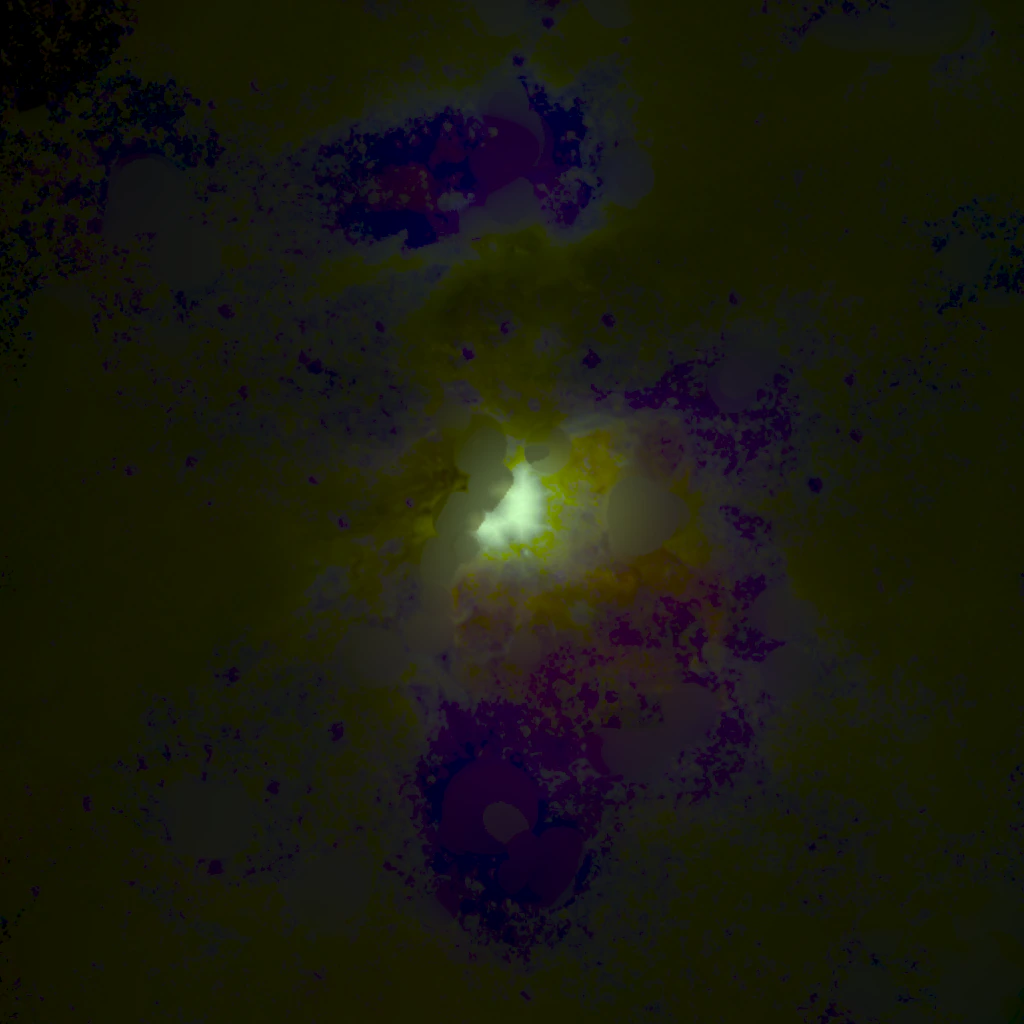
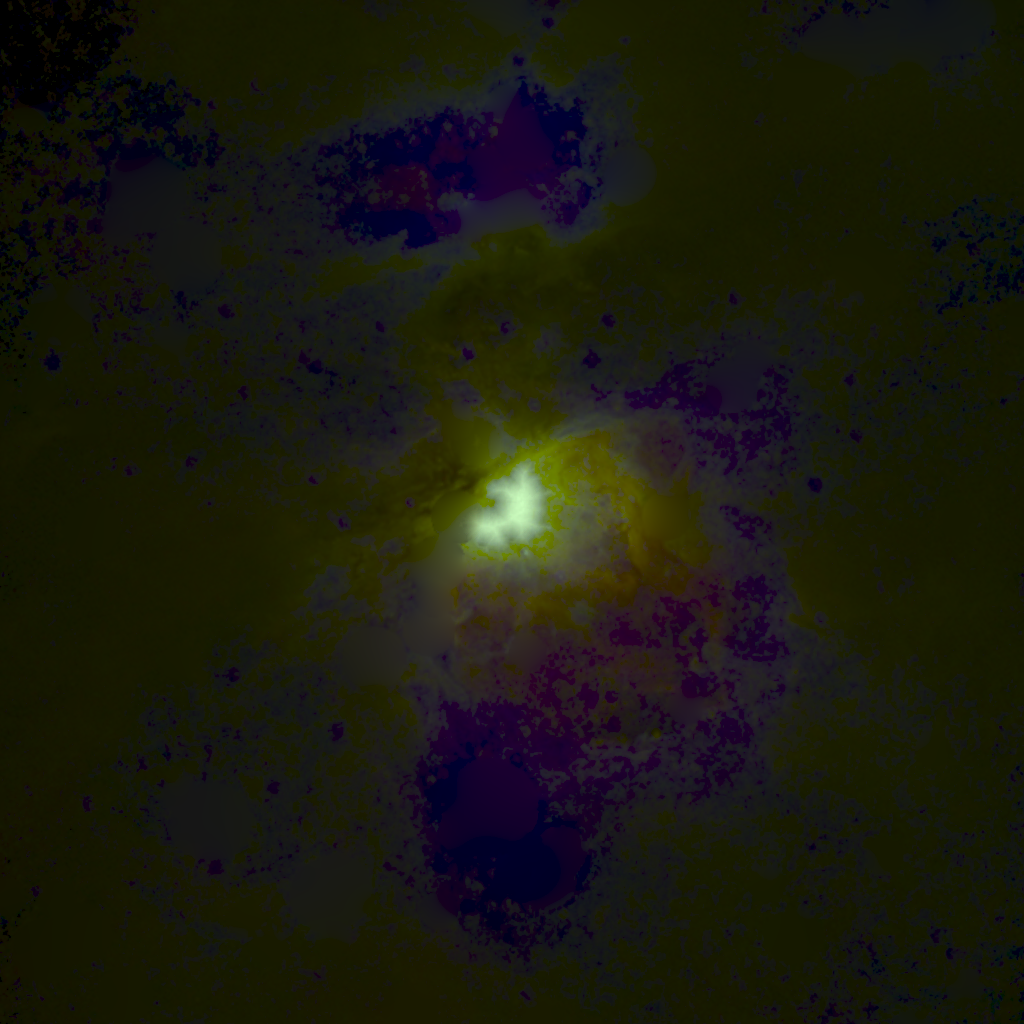
nebulae: cleaner de-starring and dust lanes, fixed asinh stretch, docs
Star remnants must be bluer than their surroundings, holes get a harmonic fill (the steep stretch inverse turned
blur fills into dark discs), NU Ori's halo ring in M43 is replaced. Dust lanes come from the local photo deficit.
The stretch is fixed (asinh, p = 8): total V 4.00, core 16.50, M43 V 8.67 as the independent check. The
emission map is near-lossless (no chroma subsampling across components). Module doc, requests, data sources and
the README line.

Claude-Session: https://claude.ai/code/session_01NLFG56DKEzxbaRG3L553Vg

diff --git a/src/modules/nebulae/ui.ts b/src/modules/nebulae/ui.ts
@@ -204,7 +204,10 @@ export function info(id: string): InfoCard | null {
   return null;
 }
 
-/** Labels for M42, M43 and the Trapezium, shown when the nebula is large enough on screen and not too close. */
+/**
+ * Labels for M42, M43 and the Trapezium, shown when the nebula is large enough on screen and not too close. Their
+ * priorities sit below the bright named stars (stars.labels: 30 - 4 m), which keep their labels in Orion.
+ */
 export function createLabels(enabled: () => boolean): LabelSource {
   const cam = vec3();
   const field = (2 * Math.tan((orion.field.halfWidthDeg * Math.PI) / 180) * D_PC) / 2;
@@ -222,7 +225,7 @@ export function createLabels(enabled: () => boolean): LabelSource {
           text: 'Orion Nebula',
           frame: NEBULA_FRAME,
           local: vec3(0, 0.3 * PC, 0),
-          priority: 40,
+          priority: 26,
           color: '#f5b3c4',
           target: 'm42-from-20ly',
         });
@@ -233,7 +236,7 @@ export function createLabels(enabled: () => boolean): LabelSource {
           text: 'M43',
           frame: NEBULA_FRAME,
           local: vec3(MODEL.m43.x * PC, MODEL.m43.y * PC, 0),
-          priority: 35,
+          priority: 20,
           color: '#f5b3c4',
           target: 'm43-close',
         });
@@ -243,7 +246,7 @@ export function createLabels(enabled: () => boolean): LabelSource {
           text: 'Trapezium',
           frame: NEBULA_FRAME,
           local: vec3(0, 0, 0),
-          priority: 38,
+          priority: 22,
           color: '#cfe0ff',
           target: 'trapezium-inside',
         });

diff --git a/src/modules/nebulae/model.ts b/src/modules/nebulae/model.ts
@@ -32,7 +32,11 @@ export interface NebulaMeta {
   maps: { file: string; tauMax: number };
   core: { file: string; xiMax: number; pixels: number; ratioLog2Span: number } | null;
   calibration: {
-    gamma: number;
+    /** Inverse stretch of the photo: 'asinh' (L = a·sinh(p·v)) or 'power' (L = a·Y^p). */
+    transfer: string;
+    stretch: number;
+    /** Brightness rise of the rebuilt clipped core over its edge. */
+    domePeak: number;
     totalV: number;
     coreMuV: number;
     m43V: number;

diff --git a/docs/modules/nebulae.md b/docs/modules/nebulae.md
@@ -1,0 +1,139 @@
+# Nebulae: the Orion Nebula
+
+The Orion Nebula (M42), De Mairan's Nebula (M43) and the Trapezium as a ray-marched 2.5D "blister" volume built from
+a registered, de-starred and photometrically calibrated photograph. Module: `src/modules/nebulae` (depends on
+`stars` and `starsystems`). Cross-module API: `public.ts` (ids only). The design is "Follow-up 4, Step C" of the
+project plan. The module is written so another nebula can be added with its own JSON rows, build outputs and frame.
+
+## Data pipeline (`tools/build-nebulae.mjs`)
+
+Inputs (sha256-pinned in `assets/manifest/nebulae.json`, fetched by `pnpm assets:fetch`): the Stellarium M42 image
+(HG731GZ, CC BY 3.0, 1024² over 3.2°) with its sky corners from Stellarium's `textures.json`, and the Hubble
+heic0601a mosaic (1280 px copy, 1.39"/px). Hand-entered rows live in `src/modules/nebulae/orion.json`, each with a
+`source`. The build is deterministic.
+
+1. **Registration.** A homography between the gnomonic projection of the four corners and the texture coordinates
+   (Stellarium's (0, 0) is the bottom-left corner). Checked on 8 catalogue stars (Hipparcos positions, measured as
+   background-subtracted centroids of the ring-shaped star remnants): the build fails if any residual exceeds 3 px.
+   Today the worst is 2.8 px (`orion-meta.json` records every residual).
+2. **Star removal.** Halo rings left by Stellarium's own star removal (difference-of-Gaussians blobs at 3/9 px that are
+   bluer than their surroundings, plus the registration stars) and residual compact cores are masked and inpainted
+   (a mask-weighted blur pyramid refined into a harmonic fill of the hole's boundary). The Huygens region (< 4') and
+   the heart of M43 are excluded from detection; NU Ori's bright halo ring in the middle of M43 is scattered starlight
+   (keeping it makes M43 ~1.2 mag too bright) and is replaced by a smooth fill.
+3. **Resampling** to a 1024² gnomonic square centred on θ¹ Ori C, ±0.9° (12.6 pc), north up, east left (6.3"/px).
+   The sky background (darkest 3%) is subtracted.
+4. **Clipped core.** The photo is clipped over the whole Huygens region (~8' across). Its brightness is rebuilt as a
+   dome inside the clipped plateau: log Y += g·(d − d²/2dMax), d the depth inside the plateau.
+5. **Calibration.** L = a · sinh(p · v) with v the display-encoded photo luminance, the inverse of the asinh stretch
+   of astro images, with p = 8. The dome slope g is set by the ratio of the core (16.5 mag/arcsec² for the brightest
+   0.5'-radius disk) to the total (V = 4.0 inside 30' of θ¹ Ori C, OpenNGC NGC1976, M43 excluded), and a by the
+   total. M43 is the independent check: V 8.67 inside 4' of NU Ori against OpenNGC's 9.0. (Fitting p on M43 as well
+   is ill-conditioned: M43's flux depends on how NU Ori's remnant is treated.) The dome peaks at ×1.9. The resulting
+   profile: μ ≈ 16.7 within 1', 18.3 at 3-4', 21.6 at 8-10', 24 at 15-20'; 65% of the light is within 4'.
+6. **Colours.** Linear photo RGB is unmixed into three components (Hα+[NII], [OIII]+Hβ, scattered light) with a typical
+   camera response per component, each kept as luminance. `orion-emission.webp` (near-lossless, so no chroma
+   subsampling mixes the components) stores the observed column radiance of the three components as (L / lRef)^(1/4).
+7. **Maps** (`orion-maps.webp`, 512², lossless): R = dust optical depth τ_V of the lanes (6 × the photo's local
+   log-deficit against its upper envelope over ~1.5', above 0.12, only in brown-red or dark pixels inside nebular
+   light; max 2), G = z displacement (high-passed log brightness), B = thickness noise (seeded fBm).
+8. **Hubble core** (`orion-core.webp`, 1024² over ±13'): registered by a similarity fit on the Trapezium (flux-weighted
+   θ¹ Ori A-E, unresolved), θ² Ori A and NU Ori in the blue-excess image (max residual 1.5 px, 1.389"/px, −0.9°),
+   de-starred (including diffraction spikes) and turned into a luminance detail ratio against its own blur at the
+   resolution of the resampled Stellarium image, stored as 0.5 + log2(ratio)/4. If the registration fails the build
+   writes `core: null` and the runtime skips it.
+
+Shipped size: ~0.86 MB (`orion-emission.webp` 538 KB, `orion-maps.webp` 181 KB, `orion-core.webp` 138 KB).
+
+## Depth model (`model.ts` + GLSL twin `model.glsl`)
+
+Local frame `nebula:m42` (pc): origin θ¹ Ori C at 400 pc, x east, y north, z away from Earth. A column is an Earth ray
+(ξ, η) = (x, y)/(400 + z); every column holds the observed radiance of the three components and its maps. Along the
+column the emission sits in layers whose profiles (3/4 (1 − u²), u = (z − zc)/hw) integrate to 1, so the view from
+Earth is the photo whatever the depth model does:
+
+- **Sheet** (the ionization front): a bowl 0.2 pc behind θ¹ Ori C, concave towards Earth
+  (z = 0.2 − 1.6 (1 − exp(−ρ²/2·1.5²)) pc), with the Orion Bar escarpment 0.23 pc to the SE (PA 60°, rising
+  0.25 pc towards us). 0.1 pc thick near the core, 1 pc beyond 4 pc, ±40% thickness noise and a z displacement of
+  half the thickness from the map.
+- **M43**: a 0.6 pc ball around NU Ori takes the emission of its columns (weight 1 inside 0.42 pc, 0 beyond 0.6 pc).
+- **Veil**: an absorber ~2 pc in front (always 0.3 pc in front of the emission) with the lanes' τ plus A_V = 0.8
+  within 2 pc. The emission behind it is de-reddened by the same τ (A_λ/A_V = 0.8, 1.1, 1.15 for R_V ≈ 5.5), so the
+  product seen from Earth is the photo, and from inside the nebula the hidden light shows.
+- **OMC-1**: an opaque slab (τ_V = 8 inside 3 pc, fading by 6 pc) just behind the emission: it hides the Galaxy behind
+  the nebula and the nebula from behind.
+
+Every layer integral over a ray segment uses (P(u_b) − P(u_a))/(u_b − u_a), exact for any step size along an Earth
+ray; absorbers in front of an emitter inside the same segment dim it fully (layer centres are ordered). Unit tests
+check column conservation within 3% at 24/48/96 steps, layer ordering, the bowl and the Bar, M43, determinism and that
+every `NEB_*` constant of the GLSL comes from `nebulaGlslDefines()`.
+
+## Rendering (`render.ts`, `march.glsl`, `display.glsl`)
+
+A background-layer Renderable modelled on `milkyway/galaxy.ts`:
+
+- The eight corners of the box (±ξmax·(D + zMax), z from −3.4 to 1.8 pc) are projected; the march covers only that
+  screen rect (the whole screen when the camera is inside the box or the box straddles the camera plane). Below 4 px
+  on screen nothing runs.
+- Reduced-resolution march into a HalfFloat target: radiance of the three components (cd/m² × 1000) and the V-band
+  opacity of the background. Re-marched only when the view changes; while still, 8 jittered frames are averaged
+  (constant-alpha blending; never in tests).
+- Sheet tracing: the vertical gap to the nearest emitting layer sets the step (0.35-3 × the uniform step), the last
+  segment always reaches the far side, early exit below 0.3% transmittance. Texture LOD follows the ray footprint.
+- Steps and divisor per preset: potato 24 / 4, low 32 / 3, medium 48 / 3, high 96 / 2, ultra 128 / 1. The work is
+  reported through `uSteps` and `material.userData.marchSteps` (scaled to the marched sub-rect).
+- The composite is a quad over the rect at renderOrder −7.5 (after the panorama and the Galaxy, before the star
+  points), premultiplied: the dust dims the Galaxy behind, stars drawn later stay undimmed. The opacity is multiplied
+  by 1 − milkyWayFade: near the Sun the panorama photo already holds M42 and its dust.
+- Distant views (> 30-100 pc) get full-resolution detail: the ratio of the sharp texel to its march-resolution blur
+  where the view ray meets the plane through θ¹ Ori C.
+
+Budgets (`tests/e2e/perf-volumes.spec.ts`, medium 1280×720): the inside view marches the whole screen at 1/3
+resolution, 4.9M fragment steps (design limit 8M); the telescope view 1.5M.
+
+## Photometry and display styles (`display.ts`)
+
+- **Realistic** (default): each component in its true colour (CIE 1931 colour of Hα 656.3 / [NII] 658.4 nm, of
+  [OIII] 500.7 / 495.9 with Hβ 486.1 nm, and an 11 000 K continuum, brought into the sRGB gamut by adding white, which
+  keeps the luminance). Output is physical: the core is 0.027 cd/m², below LIT_FLOOR (0.05), so eye adaptation and
+  star brightness are unaffected from outside the nebula.
+- **Astrophoto** (display only, no re-march): magenta-red Hα, teal [OIII], blue-white scattered light; an asinh
+  stretch of the pre-exposed luminance (softening 0.015, Y = 1 unchanged) and saturation ×1.6.
+
+## Stars
+
+θ¹ Ori A-E, θ² Ori A and NU Ori are promoted for the whole session through `starSystems().promoteCustom` at 400 pc
+along their catalogue directions with absMag = V − 8.01, so the view from Earth keeps their positions and V. HYG has
+θ¹ Ori A, C and D at its 100 kpc no-parallax placeholder, θ² Ori A at 474 pc and NU Ori at 444 pc, and lacks θ¹ Ori B
+and E; the HYG duplicates are hidden (`CustomStar.hygIndex`, `HIDE_MAX` 8). Their labels have a low priority (17-19)
+so the bright named stars keep theirs in Orion.
+
+## UI
+
+- Frame `nebula:m42` (anchoring radius 12 pc). Search: `neb:m42` (Orion Nebula, M42, NGC 1976, Great Orion Nebula),
+  `neb:m43` (De Mairan's Nebula, M43, NGC 1982), `neb:trapezium` (Trapezium Cluster, θ¹ Orionis). Info cards for the
+  three and for every promoted star (sources and approximate flags). Labels: Orion Nebula, M43, Trapezium.
+- Settings (group Sky): **Nebulae** (`nebulae.enabled`, `?nebulae.enabled=0`) and **Nebula style**
+  (`nebulae.style`: realistic / astrophoto, `?nebulae.style=`). Arriving at `m42-astrophoto` switches Astrophoto on;
+  a style switched on by arrival goes back to Realistic beyond 60 pc from θ¹ Ori C or on arrival at another bookmark,
+  unless the user changed it (the Sun filter pattern, `style.ts`, unit tested). Debug: `nebulae.gain`.
+- Bookmarks: `m42-telescope` (from Earth, 2.5° field, EV −5), `m42-from-20ly` (EV −5), `trapezium-inside` (EV −1.5:
+  inside the Huygens region the whole sky glows at ~0.05 cd/m², four stops above the night sky, which is where the eye
+  adaptation settles; at EV −5 the frame is white), `m42-astrophoto` (EV −5), `m43-close` (search target).
+
+## Tests
+
+- Unit (`tests/unit/nebulae`): registration residuals, calibration measured on the decoded WebP (V 4.0 ± 0.1, core
+  16.5 ± 0.3, M43 9 ± 0.7), bowl and Bar geometry, layer order, column conservation, determinism, TS/GLSL sync,
+  display styles, the auto-off state machine, the Trapezium absMag and HYG matching, bookmarks and cards.
+- E2E (`tests/e2e/nebulae.spec.ts`, potato 480×270): the nebula's own light SW of the Trapezium against the Dark Bay
+  NE (a flipped registration fails), the core from 20 ly, the lit inside view, the Astrophoto switch.
+
+## Known limits
+
+- Near the Sun the panorama (stars module) holds a blurred M42 of its own and is bright and blocky at telescope
+  magnification; the nebula adds to it (see `docs/requests/nebulae.md`).
+- The calibration makes the outer wings faint (μ ≈ 22-24 at 10-20'): seen from Earth or from 20 ly only the Huygens
+  region stands out in Realistic; Astrophoto shows the wings.
+- Inside the nebula the 2D column structure shows as radial streaks where the thin sheet is seen at grazing angles.
+- The depths of the stars inside the cluster are unknown: all sit at 400 pc.

diff --git a/docs/DATA_SOURCES.md b/docs/DATA_SOURCES.md
@@ -27,6 +27,18 @@ are reachable from the build container.
 Hand-entered numbers live in `tools/lib/data/bodies-physical.json` and the `BV_OVERRIDES` table in
 `tools/build-stars.mjs`. Every row carries a `source`.
 
+## Orion Nebula (nebulae)
+
+| Source                                                                                                                                   | Files                                      | Licence                                     | Used for (public/)                                                                                              |
+| ---------------------------------------------------------------------------------------------------------------------------------------- | ------------------------------------------ | ------------------------------------------- | --------------------------------------------------------------------------------------------------------------- |
+| Stellarium deep-sky images, `Stellarium/stellarium@master/nebulae/default/` (image by HG731GZ)                                           | `m42.png` (1024², 3.2° field)              | CC BY 3.0                                   | `data/nebulae/orion-emission.webp`, `orion-maps.webp` (registered, de-starred, calibrated)                      |
+| Stellarium, same folder                                                                                                                  | `textures.json` (sky corners of `m42.png`) | GPL-2.0-or-later                            | registration of the image (`orion-meta.json`)                                                                   |
+| ESA/Hubble heic0601a (NASA, ESA, M. Robberto and the HST Orion Treasury Project Team), 1280 px copy in `xirong/xirong.github.io`         | `orion_m42.jpg`                            | CC BY 4.0 (ESA); NASA imagery public domain | `data/nebulae/orion-core.webp` (de-starred detail-ratio map of the core)                                        |
+| OpenNGC (Mattia Verga), `database_files/NGC.csv` rows NGC1976, NGC1982                                                                   | cited numbers                              | CC BY-SA 4.0 (facts, cited)                 | `src/modules/nebulae/orion.json`: positions, sizes, V = 4.0 (M42) and 9.0 (M43)                                 |
+| SIMBAD; Simón-Díaz et al. 2006, 2011; Windemuth et al. 2013; Herbig & Griffin 2006; Menten et al. 2007; Kounkel et al. 2017; O'Dell 2001 | cited numbers                              | facts, cited                                | `orion.json`: Trapezium, θ² Ori A and NU Ori rows, the distance and the depth model (approximate values say so) |
+
+All three downloads are sha256-pinned in `assets/manifest/nebulae.json` and processed by `tools/build-nebulae.mjs`.
+
 ## Planned for later phases (DESIGN 4.1, not yet fetched)
 
 | Source                                                                                        | Licence                       | Phase / package               |

diff --git a/docs/requests/nebulae.md b/docs/requests/nebulae.md
@@ -1,0 +1,27 @@
+# Requests from the nebulae module (Orion Nebula)
+
+No contract changes. Each item below is shimmed inside `src/modules/nebulae/` or noted as a follow-up.
+
+1. **Surface-brightness helpers in core.** `src/modules/nebulae/photometry.ts` has `luminanceFromMu` and
+   `muFromLuminance` (mag/arcsec² ↔ cd/m², 16.5 mag/arcsec² = 0.027 cd/m²). They belong next to
+   `illuminanceFromMag` in `src/core/photometry.ts`; the nebulae module would import them from there.
+2. **HYG search for θ¹ Ori C (and A, D).** HYG has θ¹ Ori A, C and D at its 100 kpc no-parallax placeholder, θ² Ori A
+   at 474 pc and NU Ori at 444 pc. The nebulae module promotes them at 400 pc and hides the HYG points, but the stars
+   module's search entries and info cards for `hip:26220`, `hip:26221`, `hip:26224` and `hip:26235` still use the HYG
+   distances (θ¹ Ori C: "distance unknown", flying to it looks at it from the Sun). Suggested: let the stars search and
+   info provider defer to a promoted star with the same HYG index (or add a distance override row for these HIP ids
+   in `tools/build-stars.mjs`).
+3. **The panorama at telescope magnification.** Near the Sun the stars panorama (8k Solar System Scope texture) holds
+   a blurred M42 of its own: the nebula adds to it (the design keeps the nebula's opacity at 0 there, since the photo
+   already contains M42's dust), so the Huygens region is counted twice and the 2.5° view in `m42-telescope` shows a
+   bright, blocky bluish glow (μ ≈ 20 mag/arcsec²) that hides M42's faint wings. Suggested: fade the panorama with
+   magnification (or blur it to its true resolution), or let a module cut a soft mask out of it (an optional
+   `skyMask` hook in `stars/public.ts`), so the nebula can replace the panorama's M42.
+4. **Optional `CustomStar` fields (landed in the grant).** `src/modules/starsystems/promotion.ts`: `hygIndex` (the HYG
+   duplicate is hidden while promoted and `groupForIndex` maps it to the custom group), `bv` (sprite colour, default
+   the HYG value) and `labelPriority` (default 45; the session-long Trapezium promotion uses 17-19 so the bright named
+   stars keep their labels from Earth). `src/modules/stars/points.ts` `HIDE_MAX` 4 → 8; `stars.vert.glsl` takes the
+   array size from a `HIDE_MAX` define (needed for the larger array).
+5. **Perf budget for a Sun close-up** (from `docs/requests/sun.md`): added as `sun-sunspots` in
+   `tests/e2e/perf-volumes.spec.ts` (29 calls, 36k triangles; the photosphere has no march, so the fragment-step
+   budget does not see its procedural shading cost; a manual fps check on the M4 Pro is still needed).

diff --git a/README.md b/README.md
@@ -39,6 +39,8 @@ to the largest structures in the universe and back home. Or press `/` and type a
   (Alpha Centauri, Sirius) and more than 5,000 known exoplanets with habitable zones.
 - The Milky Way: the night-sky band from Earth, and from outside a barred spiral built on the measured arms, bar,
   discs and dust, with 194 globular clusters.
+- The Orion Nebula in 3D: a calibrated photograph turned into a glowing bowl you can fly into, with M43, the
+  Trapezium at its true distance and an Astrophoto style.
 
 **Black holes**
 
